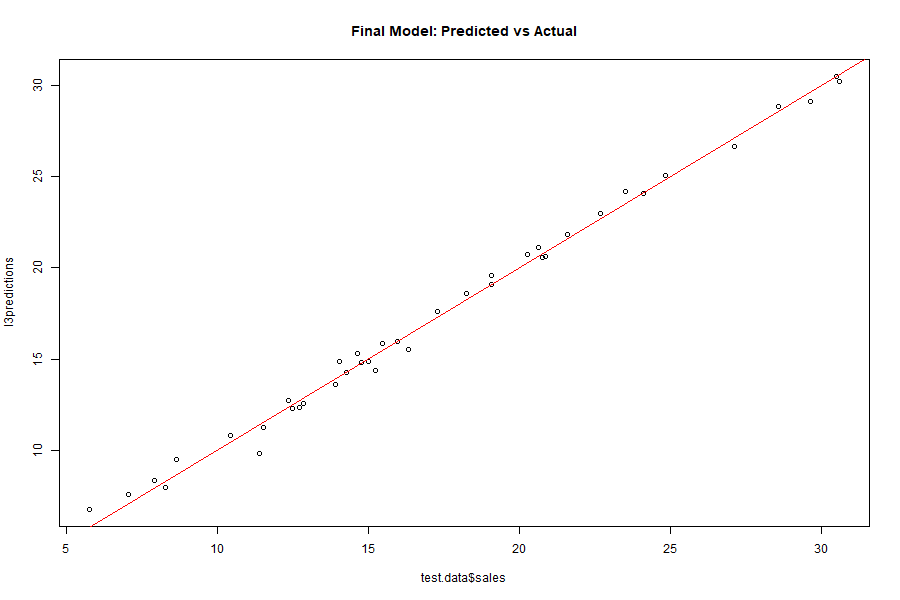
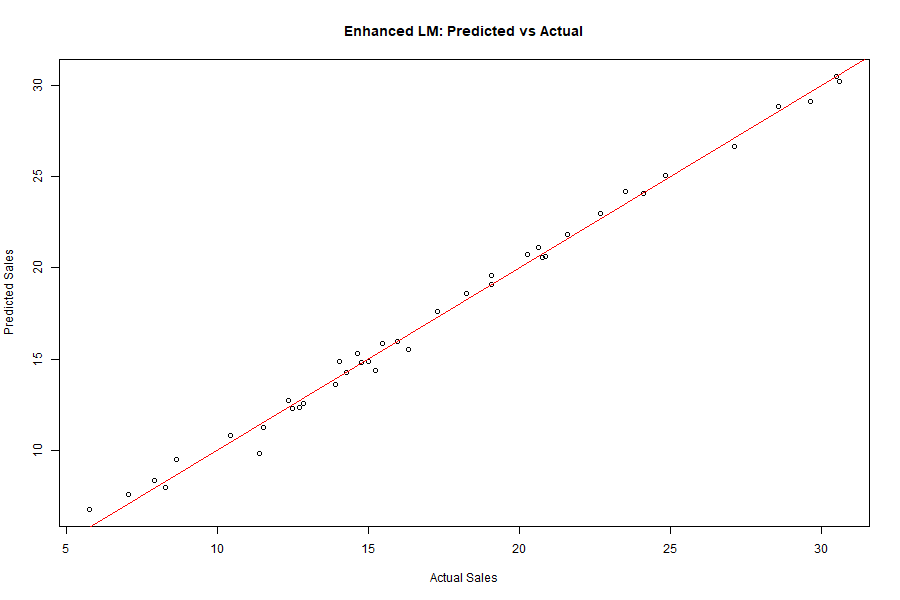
Refactor analysis script and update visualizations in README

Changed region(s): [[0.3733, 0.03, 0.6533, 0.06], [0.4667, 0.93, 0.56, 0.99], [0.0, 0.42, 0.0311, 0.54]]

diff --git a/README.md b/README.md
@@ -83,8 +83,11 @@ analysis.R
 ### kNN Tuning (RMSE vs k)
 ![kNN RMSE](images/knn-rmse-vs-k.png)
 
-### Final Model: Predicted vs Actual
-![Final Model Predictions](images/final-model-pred-vs-actual.png)
+### kNN: Predicted vs Actual
+![kNN Predicted vs Actual](images/knn-pred-vs-actual.png)
 
-### Residual Diagnostics (Final Model)
-![Final Model Residuals](images/final-model-residuals.png)
+### Enhanced Linear Regression: Predicted vs Actual
+![Enhanced LM Predicted vs Actual](images/final-model-pred-vs-actual.png)
+
+### Enhanced Model Residual Diagnostics
+![Enhanced LM Residuals](images/final-model-residuals.png)
